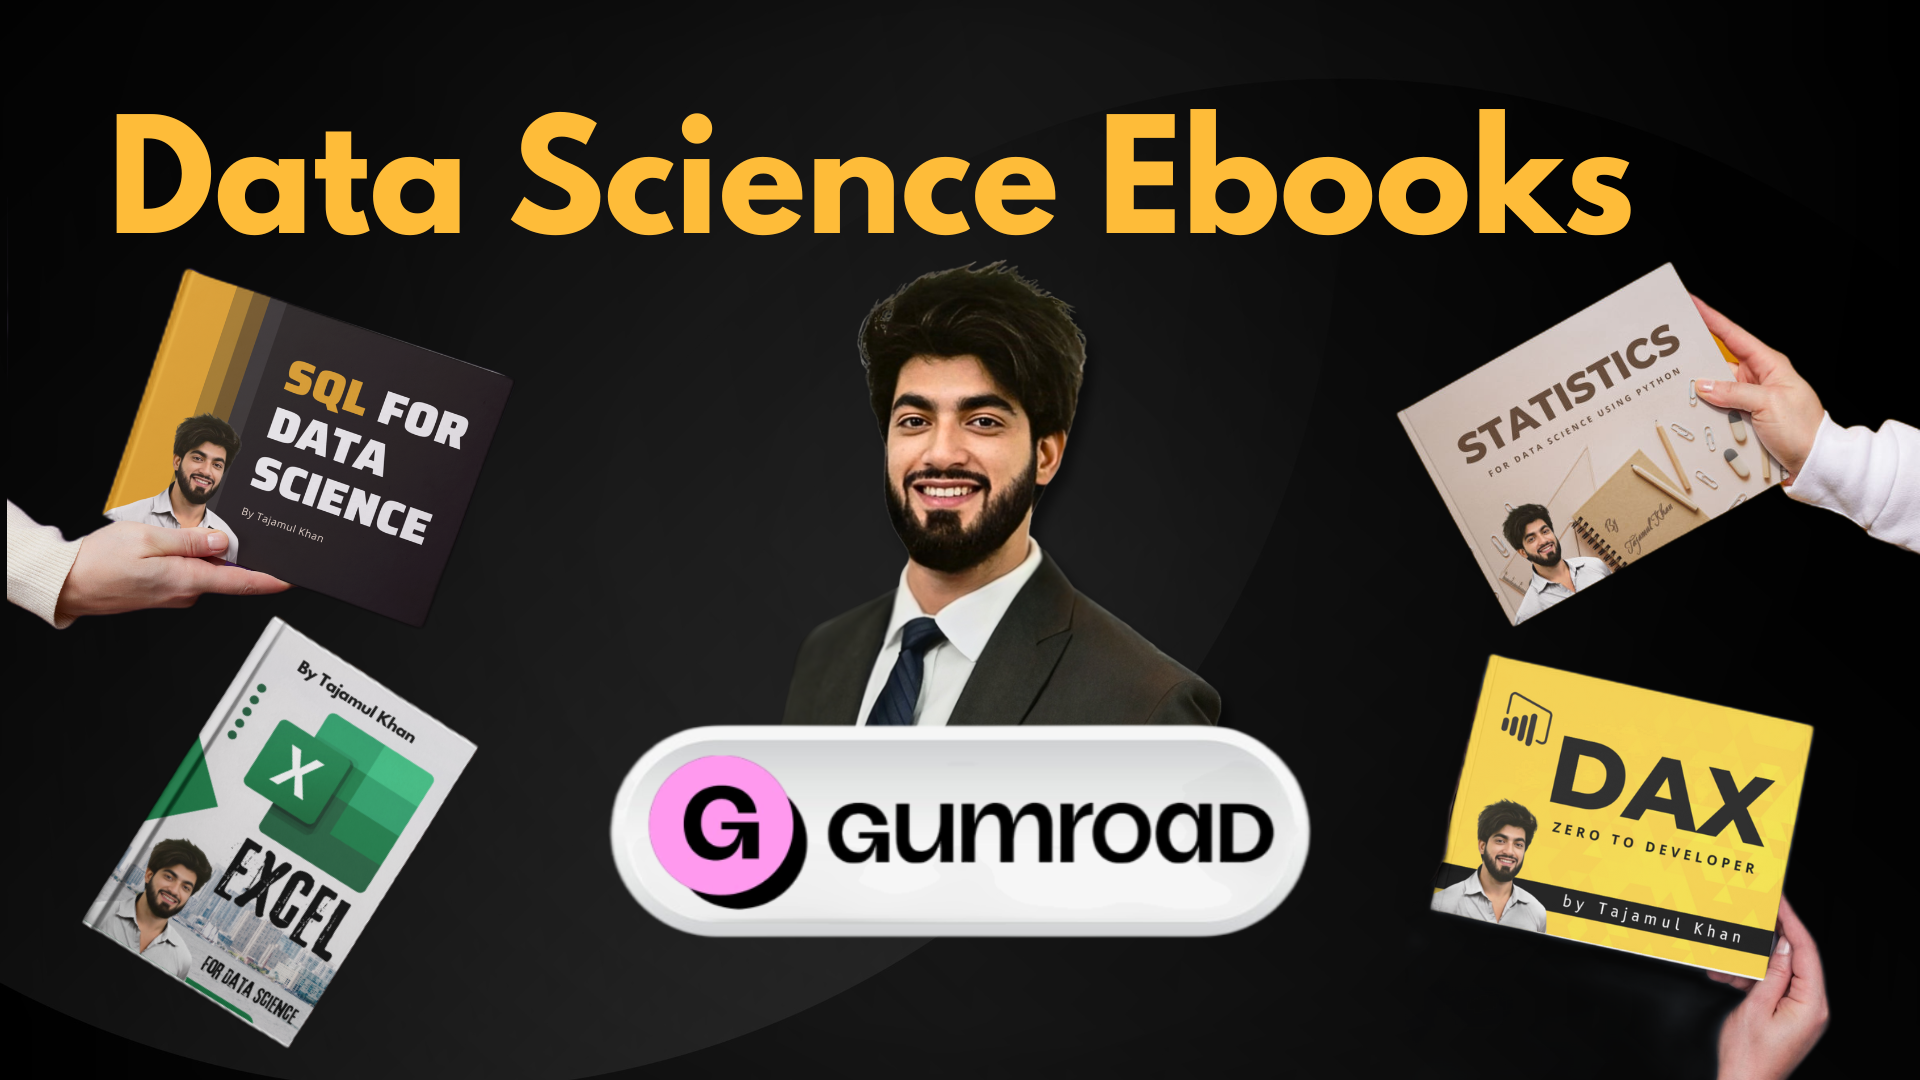
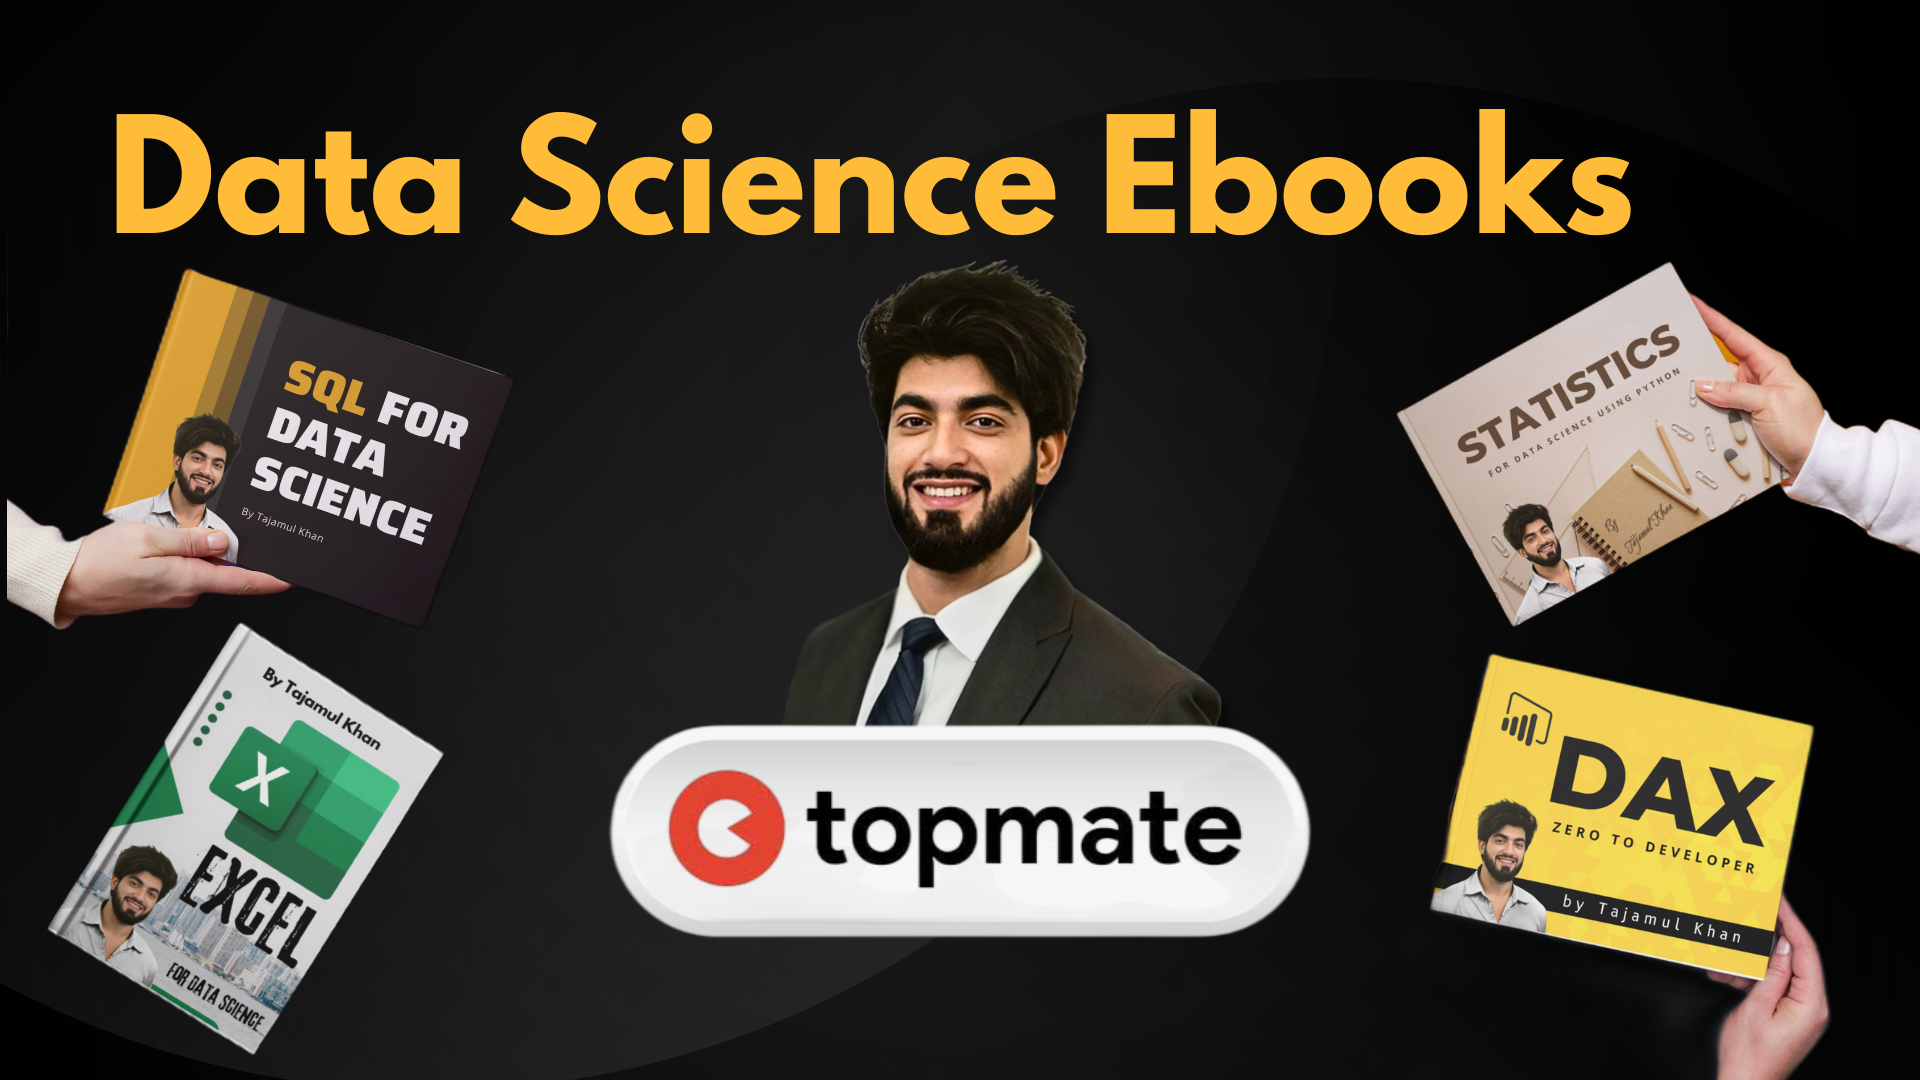
add

Changed region(s): [[0.0312, 0.55, 0.25, 0.9778], [0.3125, 0.7028, 0.6875, 0.8556]]

diff --git a/index.html b/index.html
@@ -542,7 +542,7 @@
 			</div>
 			<div class="col-md-4 d-flex ftco-animate">
 				<div class="blog-entry">
-				<a href="https://tajamulkhan.gumroad.com/" class="block-20 zoom-effect" style="background-image: url('images/proj_9.png');">
+				<a href="https://topmate.io/tajamulkhan" class="block-20 zoom-effect" style="background-image: url('images/proj_9.png');">
 				</a>
 				<div class="text mt-3 float-right d-block">
 				  <p>Explore my data science eBooks, where I have authored comprehensive guides on Machine Learning, Excel, Power BI, Python, SQL, and Statistics to enhance your skills and advance your career.</p>
